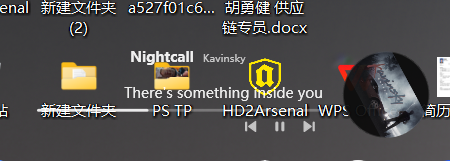
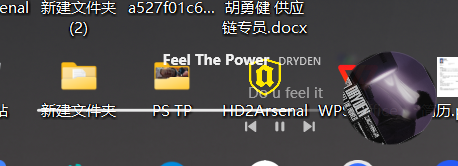
fix(template): the artist survives both sides of the same-line switch
Turning the switch off could hide the artist: the placement code treated 'no explicit coordinates' as
'same line', so a module still sitting at its automatic position collapsed to zero size. The switch
itself now decides, and the layout always supplies a rect for the standalone box.

Turning it on could hide the artist too: the tick only writes the artist run when the string changes,
and a toggle changes which element owns the string without changing it. The inline branch now writes
the run itself (a second, idempotent writer), and the title leaves room for the run so it is not
clipped by the box width.

Verified on one template: on = 'Ain't My... Zara Larsson & R3H...' on the title line, off = the same
artist in its own box below.

diff --git a/src/CardWindow.cs b/src/CardWindow.cs
@@ -393,6 +393,14 @@ namespace Amc
         /// Each player tick calls this, so it must not resurrect the inline artist after the board
         /// moved the artist module onto its own line.
         /// </summary>
+        /// <summary>Force the artist line to re-read the template. Changing "same line" flips which
+        /// element owns the text, and the text itself has not changed, so the tick-time "only write
+        /// when different" guard would leave both copies empty.</summary>
+        public void RefreshArtistLine()
+        {
+            SetArtistText(_artistText);
+        }
+
         void SetArtistText(string art)
         {
             _artistText = art ?? "";
@@ -414,15 +422,24 @@ namespace Amc
             if (_artist == null || _hostArtist == null || _runArtist == null) return;
             ModuleConfig ac = model.Find(ModuleKind.Artist);
             ModuleRect ar;
-            bool explicitPos = !model.TitleArtistInline
-                && ac != null && (!double.IsNaN(ac.X) || !double.IsNaN(ac.Y));
+            // Two states, not three: same line (inline run) or its own box (wherever the layout puts
+            // it). Hiding the box because the module still had an automatic position is what made the
+            // artist vanish when the switch was turned off.
+            bool sameLine = model.TitleArtistInline;
+            bool explicitPos = !sameLine;
             if (!explicitPos || !lay.TryFind(ModuleKind.Artist, out ar))
             {
                 if (!explicitPos)
                 {
+                    // Same line: the artist belongs to the title run. Write it here as well, because a
+                    // toggle changes *which* element owns the text while the text itself is unchanged,
+                    // so the "only write when different" guard in the tick can leave both sides blank.
                     _artist.Visibility = Visibility.Collapsed;
                     _hostArtist.Visibility = Visibility.Collapsed;
                     _hostArtist.Width = 0; _hostArtist.Height = 0;
+                    if (_runArtist != null && _artistText != null
+                        && _runArtist.Text != ("   " + _artistText))
+                        _runArtist.Text = "   " + _artistText;
                     return;
                 }
             }
@@ -2231,7 +2248,22 @@ namespace Amc
 
             string ttl = string.IsNullOrEmpty(np.Title) ? "Apple Music" : np.Title;
             string art = FitToBox(CapChars(artistOut, ModuleKind.Artist), _boxArtistW, _artist.FontSize, FontWeights.Normal);
-            string titleShown = FitToBox(CapChars(ttl, ModuleKind.Title), _boxTitleW, _title.FontSize, FontWeights.SemiBold);
+            double titleBoxW = _boxTitleW;
+            if (Model != null && Model.TitleArtistInline && art.Length > 0)
+            {
+                // Same line: the artist rides inside the title box, so the title has to leave room for
+                // it. Without this the title filled the box and the inline run was clipped away.
+                double pw2 = 1.0;
+                try
+                {
+                    var src2 = PresentationSource.FromVisual(this);
+                    if (src2 != null && src2.CompositionTarget != null) pw2 = src2.CompositionTarget.TransformToDevice.M11;
+                }
+                catch { }
+                double artW = MeasureW("   " + art, _artist.FontSize, FontWeights.Normal, pw2);
+                titleBoxW = Math.Max(24.0, _boxTitleW - artW);
+            }
+            string titleShown = FitToBox(CapChars(ttl, ModuleKind.Title), titleBoxW, _title.FontSize, FontWeights.SemiBold);
             // Assigning .Text invalidates measure/arrange even when the string is identical, and
             // this runs 30 times a second, so only write when something really changed.
             if (_runTitle.Text != titleShown) _runTitle.Text = titleShown;

diff --git a/src/MainWindow.cs b/src/MainWindow.cs
@@ -1212,6 +1212,7 @@ namespace Amc
                 if (m == null) return;
                 m.TitleArtistInline = on;
                 m.Save(CardConfig.DefaultPath);
+                _card.RefreshArtistLine();
                 _card.InvalidateModel();
                 RebuildAll();
             })));
